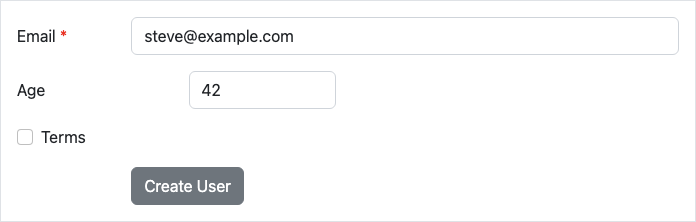
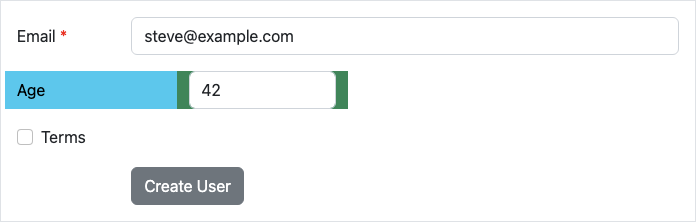
Allow array values for the `label_col` and `control_col` options. Fixes #703

Changed region(s): [[0.0, 0.2973, 0.2716, 0.5135], [0.4828, 0.3243, 0.5129, 0.4865]]

diff --git a/test/bootstrap_form_test.rb b/test/bootstrap_form_test.rb
@@ -686,7 +686,7 @@ class BootstrapFormTest < ActionView::TestCase
       </form>
     HTML
     assert_equivalent_html expected,
-                           bootstrap_form_for(@user, layout: :horizontal, label_col: "col-sm-4 col-md-2",
+                           bootstrap_form_for(@user, layout: :horizontal, label_col: %w[col-sm-4 col-md-2],
                                                      control_col: "col-sm-8 col-md-10") { |f| f.form_group { f.submit } }
   end
 

diff --git a/lib/bootstrap_form/form_builder.rb b/lib/bootstrap_form/form_builder.rb
@@ -104,7 +104,7 @@ module BootstrapForm
     end
 
     def offset_col(label_col)
-      label_col.gsub(/\bcol-(\w+)-(\d)\b/, 'offset-\1-\2')
+      [*label_col].flat_map { |s| s.split(/\s+/) }.grep(/^col-/).join(" ").gsub(/\bcol-(\w+)-(\d)\b/, 'offset-\1-\2')
     end
 
     def default_control_col

diff --git a/README.md b/README.md
@@ -1214,7 +1214,7 @@ The `label_col` and `control_col` css classes can also be changed per control:
 ```erb
 <%= bootstrap_form_for(@user, layout: :horizontal) do |f| %>
   <%= f.email_field :email %>
-  <%= f.text_field :age, label_col: "col-sm-3", control_col: "col-sm-3" %>
+  <%= f.text_field :age, label_col: %w[col-sm-3 text-bg-info], control_col: %w[col-sm-3 text-bg-success] %>
   <%= f.check_box :terms, label_col: "", control_col: "col-sm-11" %>
   <%= f.form_group do %>
     <%= f.submit %>
@@ -1233,8 +1233,8 @@ This generates:
     </div>
   </div>
   <div class="mb-3 row">
-    <label class="col-form-label col-sm-3" for="user_age">Age</label>
-    <div class="col-sm-3">
+    <label class="col-form-label col-sm-3 text-bg-info" for="user_age">Age</label>
+    <div class="col-sm-3 text-bg-success">
       <input class="form-control" id="user_age" name="user[age]" type="text" value="42">
     </div>
   </div>
